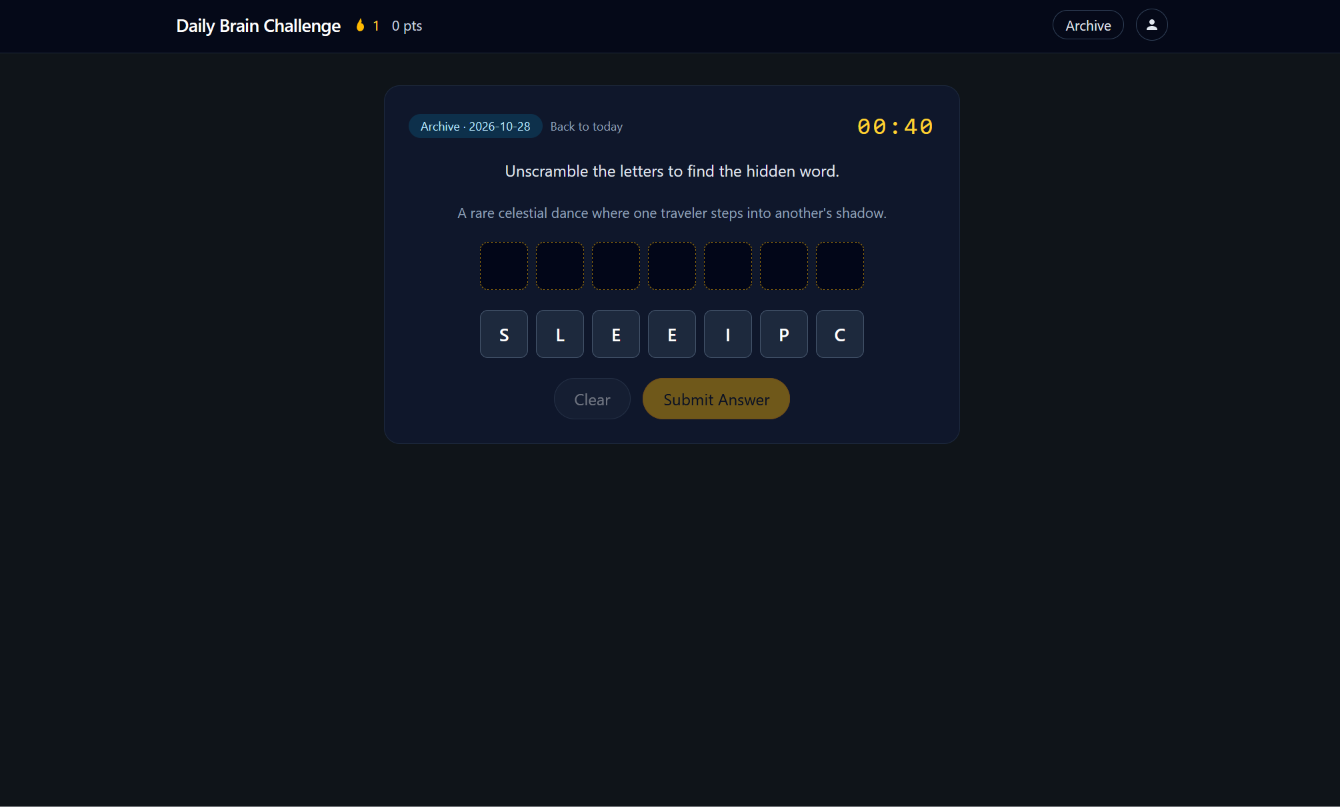
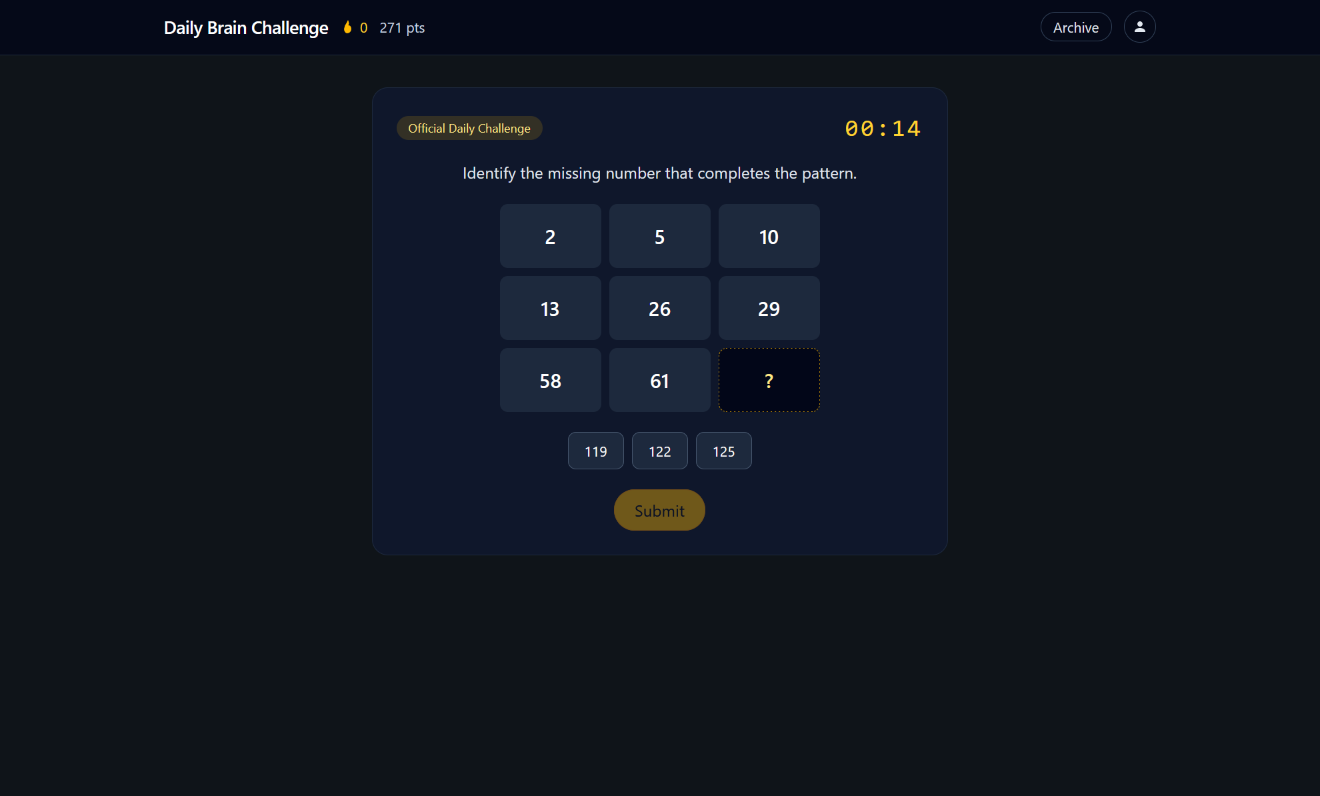
Update readme gameplay image and include extra known gaps

diff --git a/README.md b/README.md
@@ -252,6 +252,9 @@ Coverage areas include verification and scoring, daily/archive submit, guest com
 ## Known gaps
 
 - Archive benchmarks are per-puzzle, not a global historical leaderboard.
+- Stale faily UI after a long-open tab
+- Stronger pattern explanation checks
+- Real news article links instead of google searches
 - Cold queue fills are intentionally paced for Gemini free-tier RPM limits; nightly top-ups are much shorter once the horizon is warm.
 
 ---
